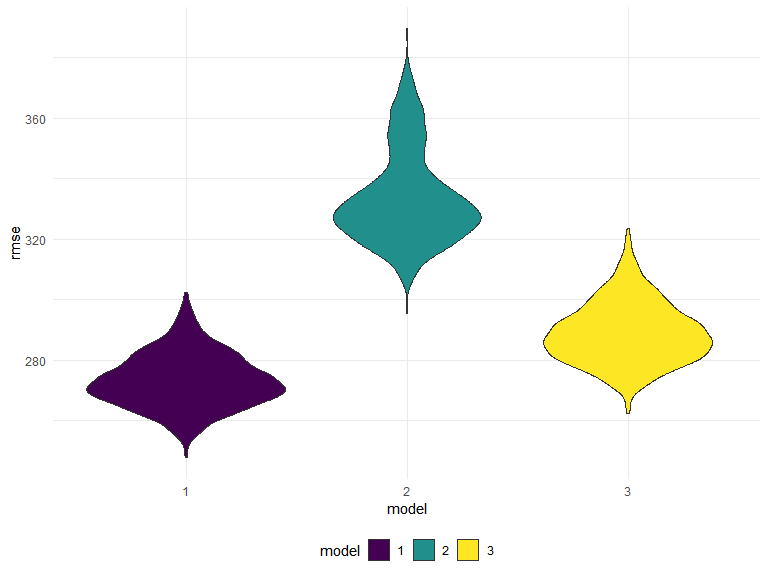
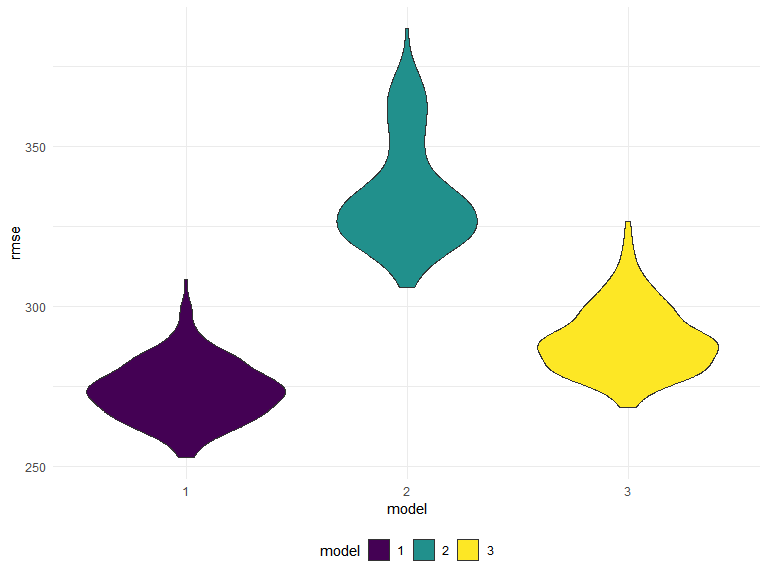
little change for problem 3

diff --git a/p8105_hw6_rc3521.md b/p8105_hw6_rc3521.md
@@ -339,7 +339,7 @@ choose above.
 
 ``` r
 cv_df = 
-  crossv_mc(birthweight_df, 2000) %>% 
+  crossv_mc(birthweight_df, 200) %>% 
   mutate(
     train = map(train, as_tibble), 
     test = map(test, as_tibble))
@@ -352,7 +352,9 @@ cv_df_1 =
                                 mheight + mrace + parity + 
                                 ppwt + smoken, data = .x)),
     model_2  = map(train, ~lm(bwt ~ gaweeks + blength, data = .x)),
-    model_3  = map(train, ~lm(bwt ~ bhead + blength + babysex, data = .x))) %>% 
+    model_3  = map(train, ~lm(bwt ~ bhead*blength + bhead*babysex + 
+                                babysex * blength  + babysex *  
+                                bhead*blength, data = .x))) %>% 
   mutate(
     rmse_1 = map2_dbl(model_1, test, ~rmse(model = .x, data = .y)),
     rmse_2 = map2_dbl(model_2, test, ~rmse(model = .x, data = .y)),
